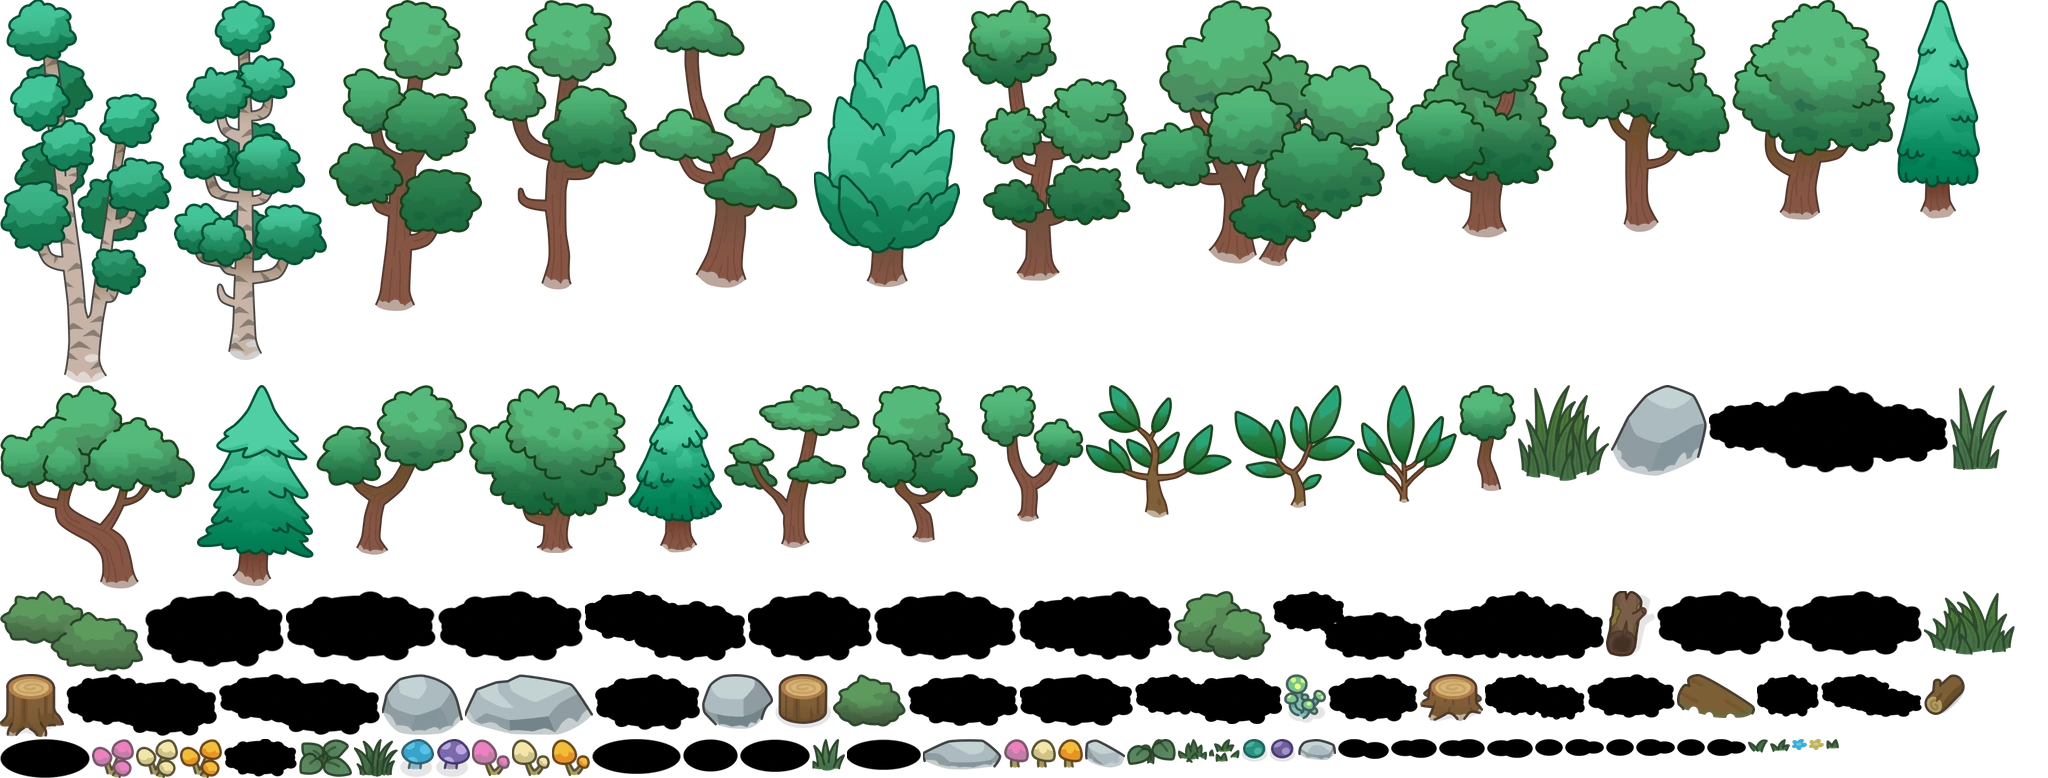
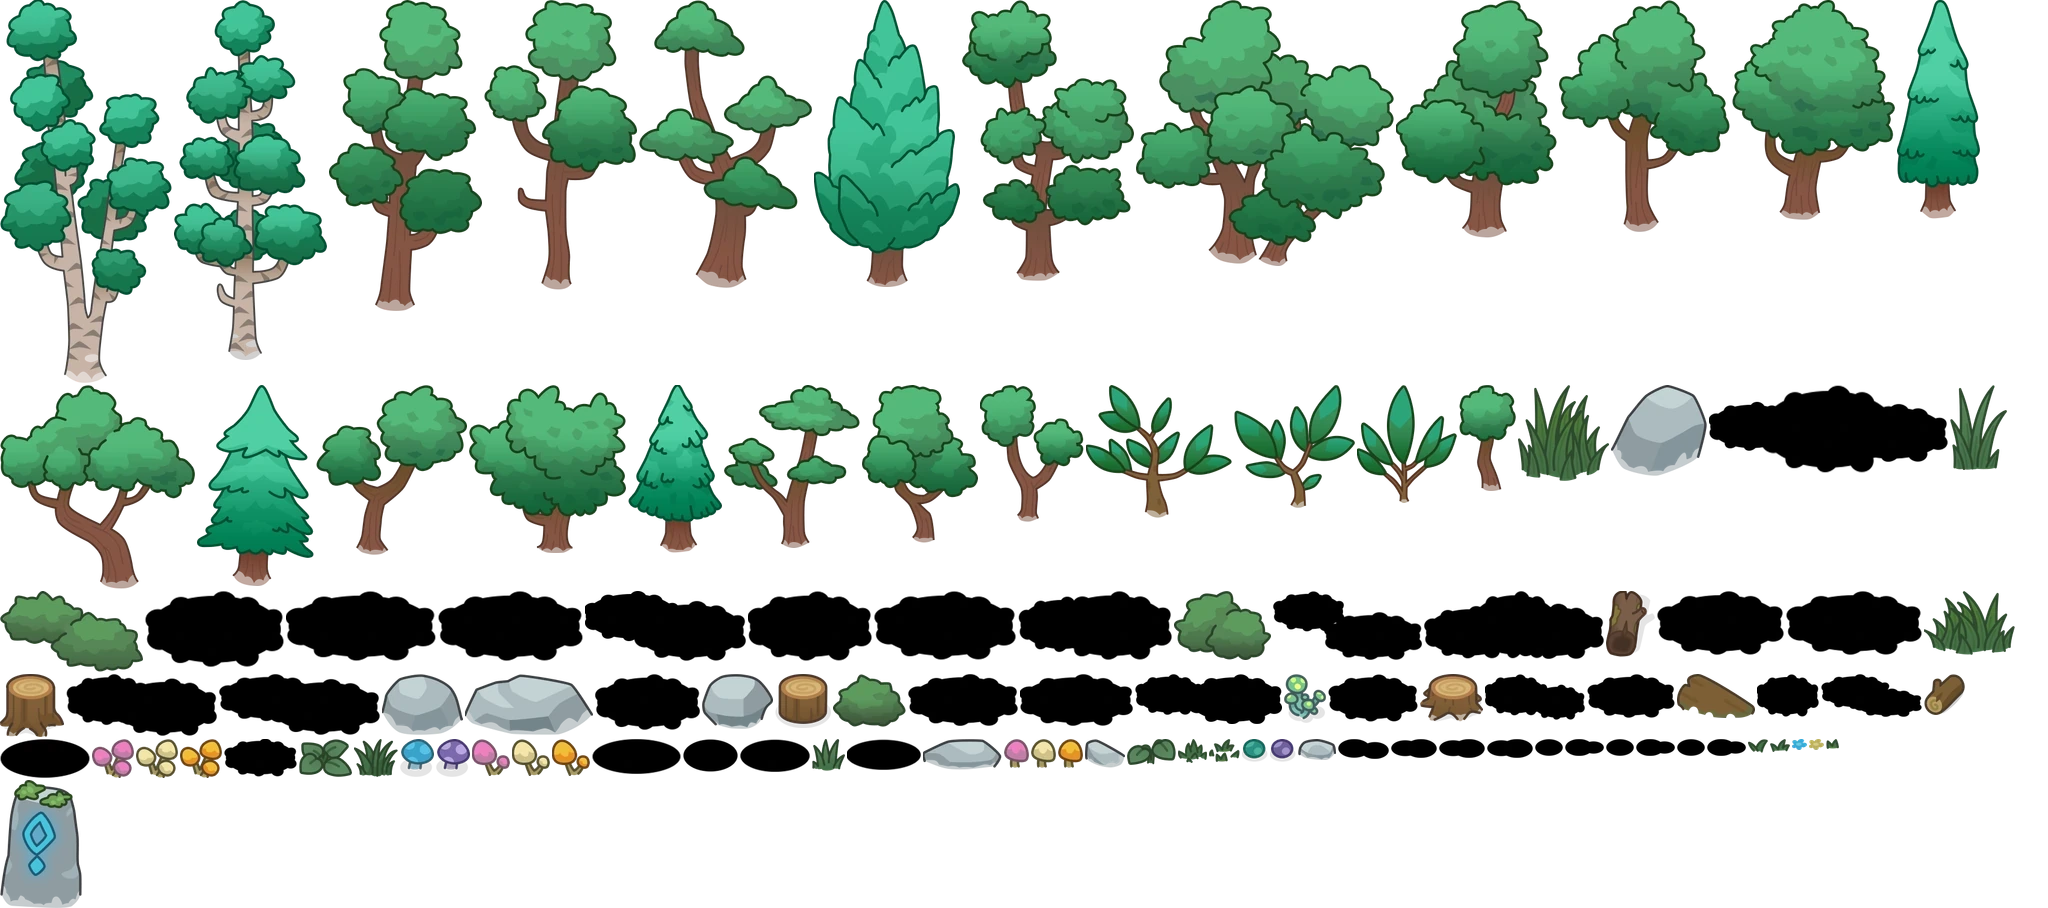
0.900.2: the Town's portals at the ends of their roads, and a rune stone
The travel and Soul Dimension portals stood on their roads a little short
of where they leave the village. They now stand at the very ends, read
from the ground image: the top road's at the north edge (its arch over
the grass beyond), the bottom road's at the south edge. The pack's
RuneStone_01 is appended to the countryside atlas and stands beside the
Soul Dimension's portal.

The server checks portal use against the same points, so this needs the
server published.

diff --git a/src/game/town-world.ts b/src/game/town-world.ts
@@ -1,4 +1,4 @@
-import { inTownInteriors, inTownVillage, TOWN_ARRIVAL, TOWN_BENCH_POSITION, TOWN_CHUNK_SIZE, TOWN_INTERIOR_MARGIN, TOWN_QUEST_BOARD_POSITION, TOWN_RESEARCH_POSITION, townChunkProps, townWindowChunks, type TownPropKind } from "../../shared/town";
+import { inTownInteriors, inTownVillage, TOWN_ARRIVAL, TOWN_BENCH_POSITION, TOWN_CHUNK_SIZE, TOWN_INTERIOR_MARGIN, TOWN_QUEST_BOARD_POSITION, TOWN_RESEARCH_POSITION, townChunkProps, townWindowChunks, type TownPropKind, TOWN_SOUL_RUNESTONE } from "../../shared/town";
 import { SOUL_ATLAS, SOUL_INTERIOR_DECOR, SOUL_VILLAGE_DECOR, type SoulFrame } from "./soul-village";
 import type { WorldDecor, WorldPath } from "./world";
 
@@ -45,11 +45,13 @@ const TOWN_INTERIOR_DECOR: readonly WorldDecor[] = [...SOUL_INTERIOR_DECOR.filte
  * The square's signpost, just east of where every traveller lands (on open cobbles, clear of the fountain,
  * the barn's hay and the doors): its plank, labelled Travel, points up the road to the travel portal.
  */
+/** The rune stone beside the Soul Dimension's portal (the pack's RuneStone_01, in the countryside's atlas). */
+export const TOWN_RUNESTONE: WorldDecor = { type: "soulProp", frame: "RuneStone_01", s: .8, ...TOWN_SOUL_RUNESTONE };
 export const TOWN_SIGNPOST: WorldDecor = { type: "soulProp", frame: "", s: 1, x: TOWN_ARRIVAL.x + 230, y: TOWN_ARRIVAL.y - 10, signpost: "Travel" };
 
 /** Every prop in the chunk window around a point: the village's and its rooms' when they are near, and the countryside's. */
 export function townWindowDecor(x: number, y: number): WorldDecor[] {
-  const decor: WorldDecor[] = inTownVillage(x, y, TOWN_CHUNK_SIZE * 2.5) ? [...SOUL_VILLAGE_DECOR, TOWN_SIGNPOST] : [];
+  const decor: WorldDecor[] = inTownVillage(x, y, TOWN_CHUNK_SIZE * 2.5) ? [...SOUL_VILLAGE_DECOR, TOWN_SIGNPOST, TOWN_RUNESTONE] : [];
   if (inTownInteriors(x, y, TOWN_INTERIOR_MARGIN)) decor.push(...TOWN_INTERIOR_DECOR);
   for (const { cx, cy } of townWindowChunks(x, y)) {
     for (const prop of townChunkProps(cx, cy)) {

diff --git a/public/index.html b/public/index.html
@@ -219,7 +219,7 @@
   <div class="minimap-meta">
     <div id="minimapMapName" class="minimap-map-name" aria-live="polite"></div>
     <div id="minimapPlayers" class="minimap-players">players online: 0</div>
-    <button id="minimapVersion" class="minimap-version" type="button" aria-label="Game alpha version v0.900.1. Open release notes">alpha v0.900.1</button>
+    <button id="minimapVersion" class="minimap-version" type="button" aria-label="Game alpha version v0.900.2. Open release notes">alpha v0.900.2</button>
   </div>
   <button id="enemyRespawnAdBtn" class="respawn-ad-button" type="button" aria-label="Watch ad · +10 Gems" aria-controls="enemyRespawnAdPrompt" aria-expanded="false" aria-haspopup="dialog" hidden>
     <span class="respawn-ad-video-icon" aria-hidden="true"></span>
@@ -242,7 +242,7 @@
       <span>WORLD CHAT</span>
       <div id="topMeta">
         <div id="coopStatus">Players online: 1</div>
-        <div id="version">alpha v0.900.1</div>
+        <div id="version">alpha v0.900.2</div>
       </div>
       <button id="chatSizeToggle" class="chat-size-toggle" type="button" aria-label="Expand chat" aria-expanded="false"><span class="chat-size-icon" aria-hidden="true"></span></button>
     </div>
@@ -316,7 +316,7 @@
       <ul id="updateNoticeItems" class="signin-update-history"></ul>
     </div>
   </aside>
-  <button id="signinVersion" class="signin-version" type="button" aria-expanded="false" aria-controls="updateNotice" aria-label="WildStat alpha version v0.900.1. Toggle release notes">alpha v0.900.1</button>
+  <button id="signinVersion" class="signin-version" type="button" aria-expanded="false" aria-controls="updateNotice" aria-label="WildStat alpha version v0.900.2. Toggle release notes">alpha v0.900.2</button>
   <div id="legalGatePanel" class="modal legal-gate-modal" role="dialog" aria-modal="true" aria-labelledby="legalGateIntro" hidden>
     <p id="legalGateIntro">Choose your age</p>
     <div class="legal-age-control">

diff --git a/shared/town.ts b/shared/town.ts
@@ -38,10 +38,15 @@ export const TOWN_WALK_AREA = Object.freeze({
 
 type Pad = { x: number; y: number; width: number; height: number; depth: number };
 const pad = (dx: number, dy: number): Pad => Object.freeze({ x: TOWN_CENTER.x + dx, y: TOWN_CENTER.y + dy, width: 150, height: 150, depth: TOWN_CENTER.y + dy });
-/** The travel portal, where the village's top road leaves it: it opens the map picker. */
-export const TOWN_TRAVEL_PORTAL = Object.freeze({ ...pad(-1_225, -1_215), label: "Travel" });
-/** The Soul Dimension's portal, where the bottom road leaves the village past the bridge. */
-export const TOWN_SOUL_PORTAL = Object.freeze({ ...pad(-610, 1_880), destination: "soul_dimension" as const, label: "Soul Dimension" });
+/**
+ * The travel portal, at the very end of the village's top road (where its dirt meets the ground's north edge),
+ * standing on it with its arch over the grass beyond: it opens the map picker.
+ */
+export const TOWN_TRAVEL_PORTAL = Object.freeze({ ...pad(-1_220, -1_365), label: "Travel" });
+/** The Soul Dimension's portal, at the very end of the bottom road past the bridge, where it meets the south edge. */
+export const TOWN_SOUL_PORTAL = Object.freeze({ ...pad(-609, 1_985), destination: "soul_dimension" as const, label: "Soul Dimension" });
+/** The rune stone that marks the Soul Dimension's portal, beside it. */
+export const TOWN_SOUL_RUNESTONE = Object.freeze({ x: TOWN_SOUL_PORTAL.x + 118, y: TOWN_SOUL_PORTAL.y - 6 });
 
 /** A seeded random stream from whole-number parts: the countryside is laid from it, the same on every client. */
 export function townRandom(...parts: number[]) {

diff --git a/shared/town.test.ts b/shared/town.test.ts
@@ -27,3 +27,13 @@ it("has its portals on the village's roads, inside the walls, and its rooms far 
   expect(TOWN_SOUL_PORTAL.y).toBeGreaterThan(TOWN_CENTER.y);
   for (const door of TOWN_DOORS) expect(door.room.top - TOWN_WALK_AREA.bottom).toBeGreaterThan(3_000);
 });
+
+it("stands both portals at the very ends of their roads, and the rune stone beside the Soul Dimension's", async () => {
+  const { TOWN_SOUL_RUNESTONE } = await import("./town");
+  // The roads leave the village ground at its north and south edges (TOWN_VILLAGE_BOUNDS is that ground, a little inside).
+  expect(TOWN_TRAVEL_PORTAL.y).toBeLessThan(TOWN_CENTER.y - 1_350);
+  expect(TOWN_SOUL_PORTAL.y).toBeGreaterThan(TOWN_CENTER.y + 1_970);
+  const fromPortal = Math.hypot(TOWN_SOUL_RUNESTONE.x - TOWN_SOUL_PORTAL.x, TOWN_SOUL_RUNESTONE.y - TOWN_SOUL_PORTAL.y);
+  expect(fromPortal).toBeGreaterThan(TOWN_SOUL_PORTAL.width / 2);
+  expect(fromPortal).toBeLessThan(200);
+});

diff --git a/src/app/changelog.ts b/src/app/changelog.ts
@@ -1,4 +1,8 @@
 export const RELEASE_NOTES: Record<string, string[]> = {
+  "0.900.2": [
+    "The Town's Travel and Soul Dimension portals stand at the very ends of their roads",
+    "A rune stone marks the Soul Dimension's portal",
+  ],
   "0.900.1": [
     "Soul Dimension tiers no longer ask for attack speed enemy kills: Damage, Health, Armor and Regen enemies, found on every map, are enough",
   ],
@@ -2925,6 +2929,7 @@ const RELEASE_DATES: Record<string, string> = {
 };
 
 export const RELEASE_DAYS: Record<string, string> = {
+  "0.900.2": "2026-10-06",
   "0.900.1": "2026-10-06",
   "0.900.0": "2026-10-06",
   "0.899.13": "2026-10-06",

diff --git a/src/game/runtime/game-settings.ts b/src/game/runtime/game-settings.ts
@@ -1,4 +1,4 @@
-export const GAME_VERSION = "0.900.1";
+export const GAME_VERSION = "0.900.2";
 export const ATTACK_RANGE_VISIBLE_KEY = "wildwood-attack-range-visible-v1";
 export const LOW_PERFORMANCE_MODE_KEY = "wildwood-low-performance-mode-v1";
 export const FPS_VISIBLE_KEY = "wildwood-fps-visible-v1";
